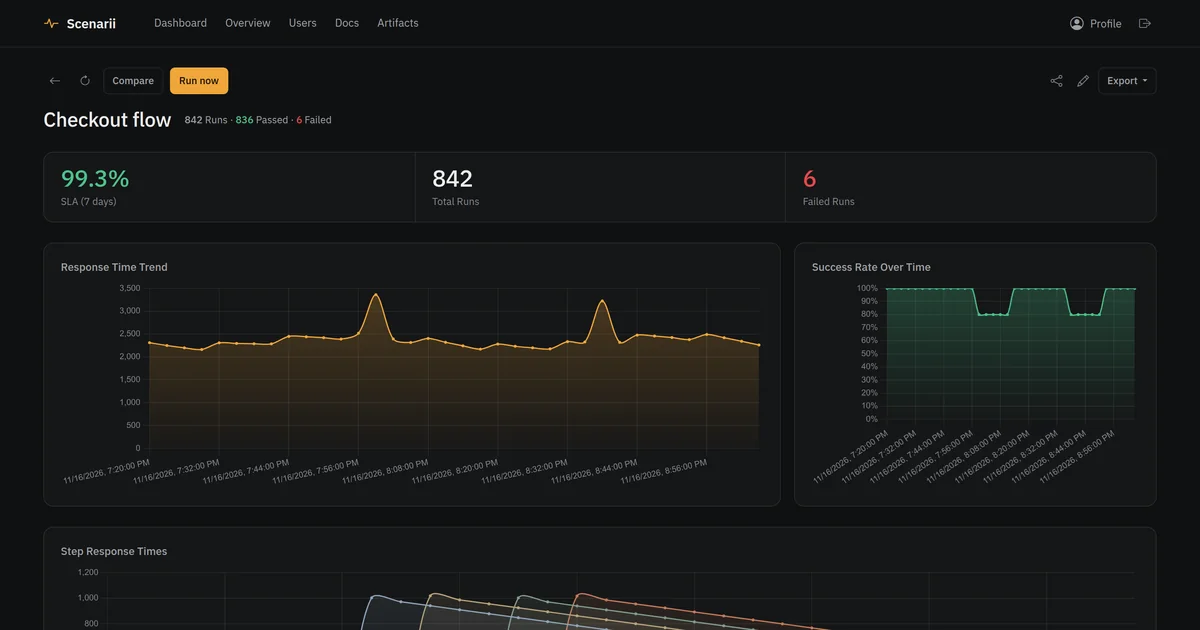
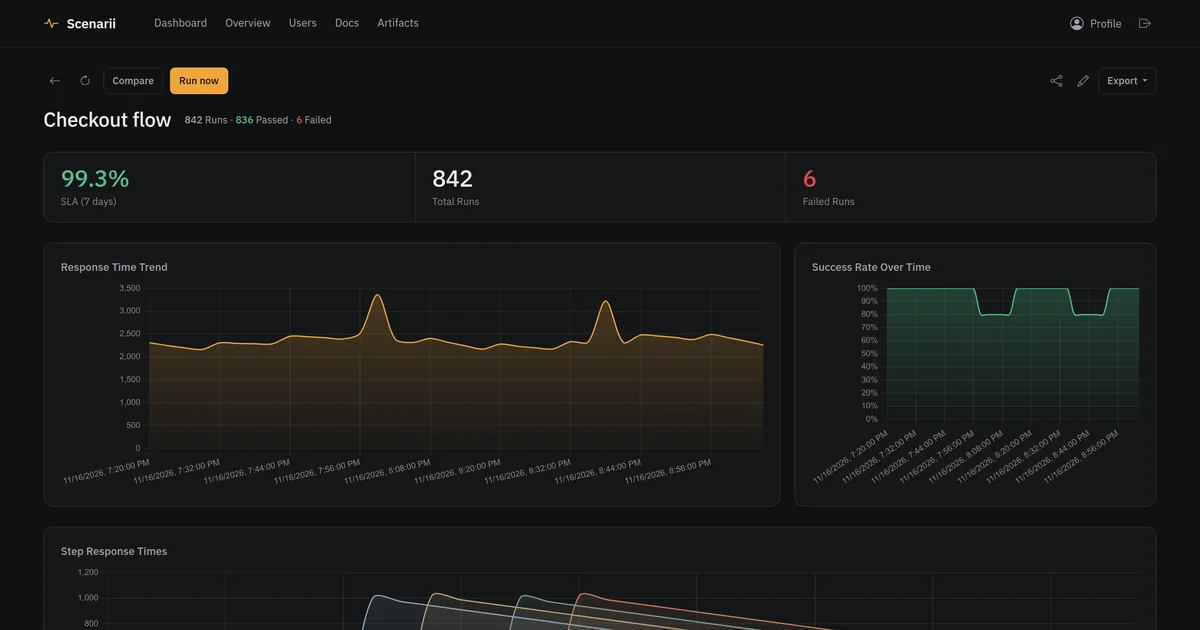
Remove dots in charts

diff --git a/frontend/src/app/features/scenario-detail/scenario-detail.ts b/frontend/src/app/features/scenario-detail/scenario-detail.ts
@@ -439,7 +439,8 @@ export class ScenarioDetailComponent implements OnInit, OnDestroy {
                 fill: true,
                 tension: 0.3,
                 borderWidth: 1.5,
-                pointRadius: 1,
+                pointRadius: 0,
+                pointHoverRadius: 0,
               },
             ],
           },
@@ -479,7 +480,8 @@ export class ScenarioDetailComponent implements OnInit, OnDestroy {
                 fill: true,
                 tension: 0.3,
                 borderWidth: 1.5,
-                pointRadius: 1,
+                pointRadius: 0,
+                pointHoverRadius: 0,
               },
             ],
           },
@@ -526,7 +528,8 @@ export class ScenarioDetailComponent implements OnInit, OnDestroy {
             fill: true,
             tension: 0.3,
             borderWidth: 1.5,
-            pointRadius: 1,
+            pointRadius: 0,
+                pointHoverRadius: 0,
           };
         });
 

diff --git a/frontend/src/app/features/public-status/public-status.ts b/frontend/src/app/features/public-status/public-status.ts
@@ -119,7 +119,8 @@ export class PublicStatusComponent implements OnInit, OnDestroy {
             fill: true,
             tension: 0.3,
             borderWidth: 1.5,
-            pointRadius: 2,
+            pointRadius: 0,
+            pointHoverRadius: 0,
           }],
         },
         options: {
@@ -150,7 +151,8 @@ export class PublicStatusComponent implements OnInit, OnDestroy {
             fill: true,
             tension: 0.3,
             borderWidth: 1.5,
-            pointRadius: 2,
+            pointRadius: 0,
+            pointHoverRadius: 0,
           }],
         },
         options: {
